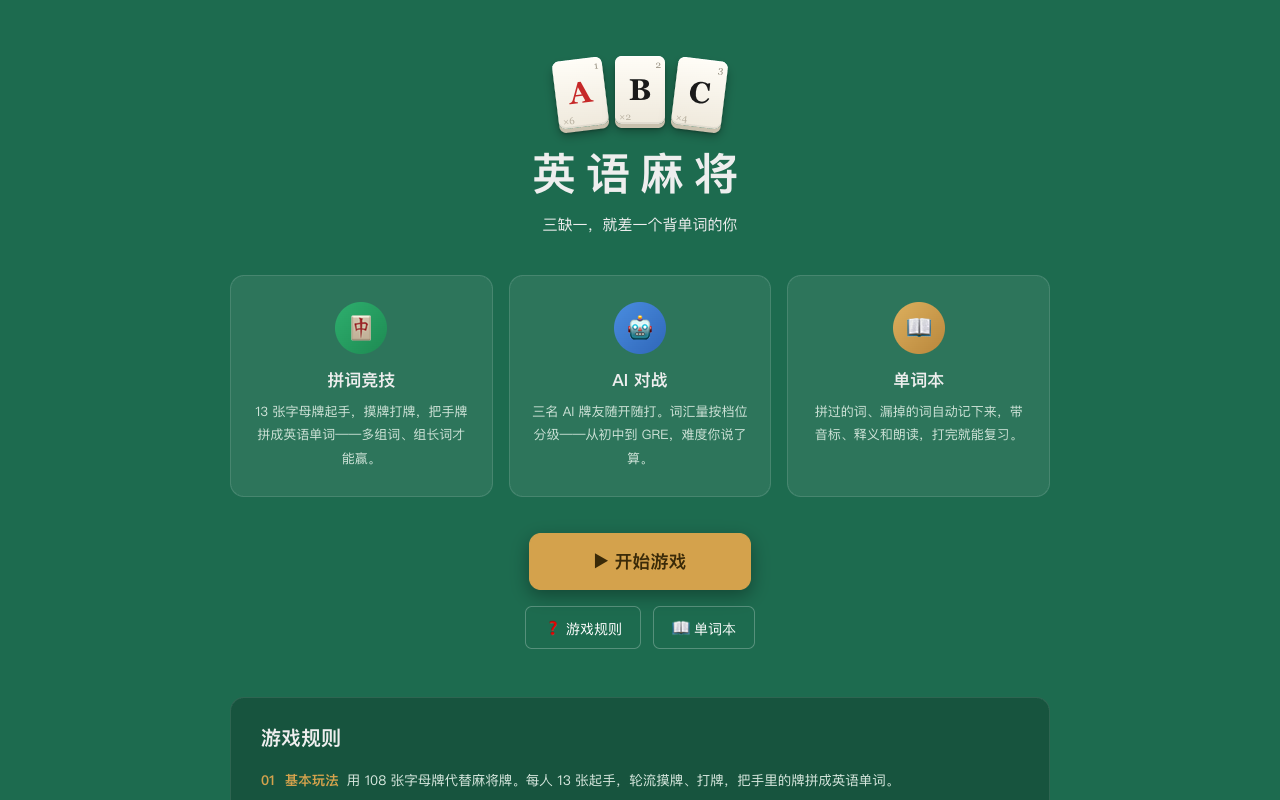
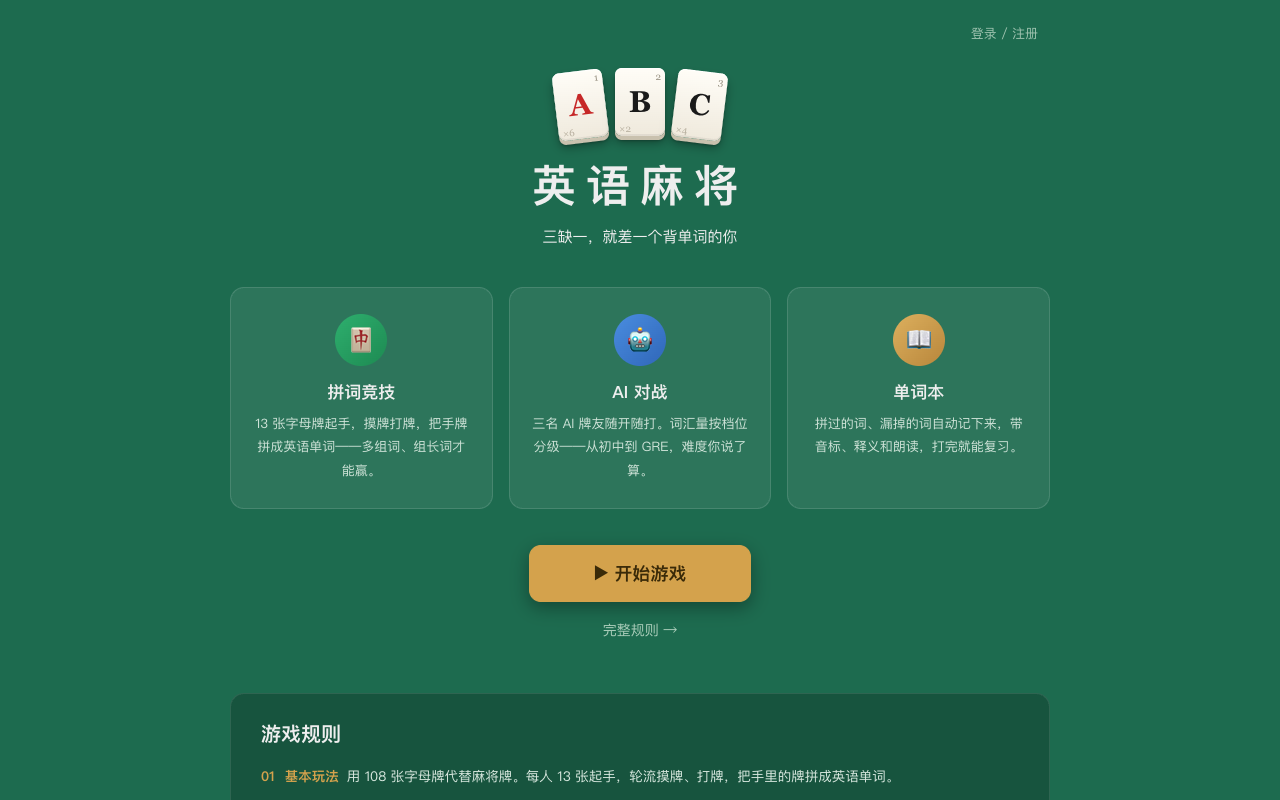
更新 README 截图为 2.5D 改版后的样式

diff --git a/README.md b/README.md
@@ -63,7 +63,7 @@ node playthrough.mjs # Playwright 端到端：真实浏览器打完一整局
 - [ ] 单词本导出
 - [ ] 更多词库档位
 - [ ] 真人联机对战（房间制）
-- [ ] 排行榜 / 每日一局
+- [ ] 每日一局
 - [ ] 胡牌需朗读单词或写出释义
 - [ ] 造句玩法、限时玩法
 - [ ] 移动端竖屏布局打磨、iOS/Android App
